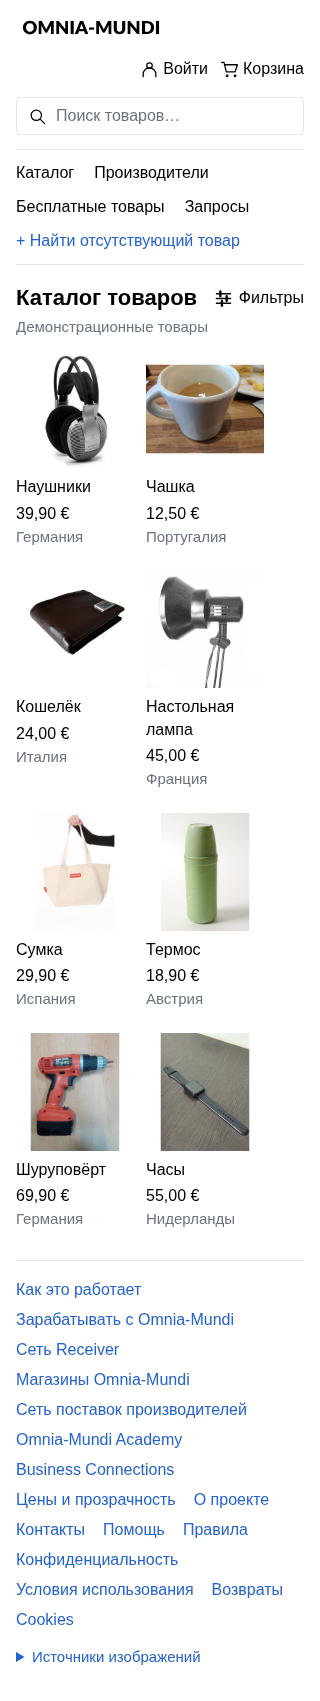
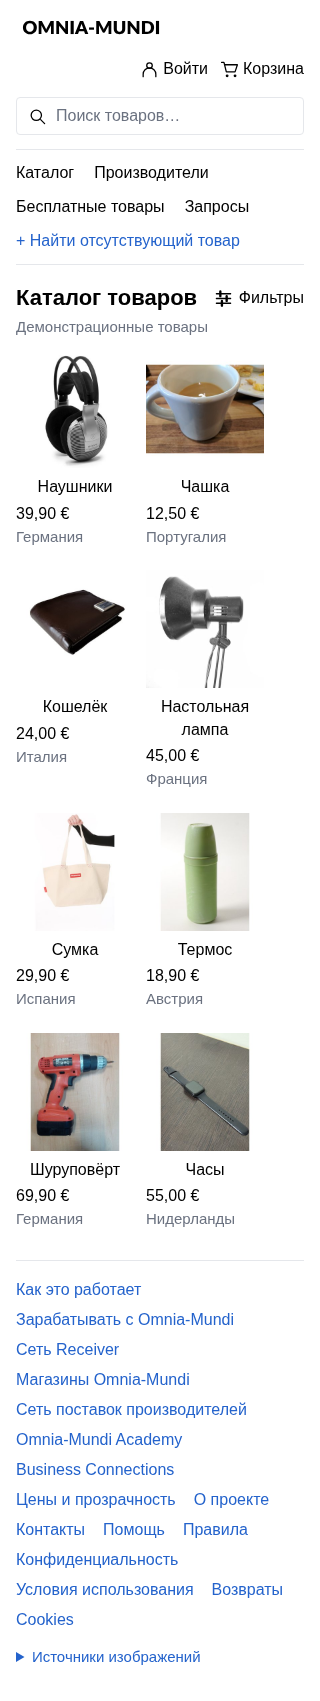
Verify centered product title lines and refresh responsive screenshots

diff --git a/tests/homepage.py b/tests/homepage.py
@@ -11,6 +11,25 @@ parser = argparse.ArgumentParser()
 parser.add_argument('--url', default='http://127.0.0.1:3010')
 parser.add_argument('--layout-only', action='store_true', help='Skip photo readiness and final screenshots while source access is blocked')
 args = parser.parse_args()
+
+def assert_product_alignment(page):
+    products = page.locator('.products article').evaluate_all("""(articles)=>articles.map(article=>{
+        const title=article.querySelector('h2');
+        const image=article.querySelector('img').getBoundingClientRect();
+        const box=title.getBoundingClientRect();
+        const range=document.createRange(); range.selectNodeContents(title);
+        return {name:title.textContent, align:getComputedStyle(title).textAlign,
+            imageCenter:image.x+image.width/2, titleCenter:box.x+box.width/2,
+            lines:[...range.getClientRects()].map(line=>line.x+line.width/2),
+            amounts:[...article.querySelectorAll('.price,.country')].map(n=>({align:getComputedStyle(n).textAlign,x:n.getBoundingClientRect().x})),
+            imageLeft:image.x};
+    })""")
+    for product in products:
+        assert product['align'] == 'center', product
+        assert abs(product['titleCenter'] - product['imageCenter']) < 1, product
+        assert product['lines'] and all(abs(center - product['imageCenter']) < 1 for center in product['lines']), product
+        assert all(n['align'] in ['left', 'start'] and abs(n['x'] - product['imageLeft']) < 1 for n in product['amounts']), product
+
 with sync_playwright() as p:
     browser = p.chromium.launch(executable_path='/usr/bin/chromium', headless=True, args=['--no-sandbox'])
     page = browser.new_page(viewport={'width': 1440, 'height': 900})
@@ -28,6 +47,9 @@ with sync_playwright() as p:
         positions = page.locator('.products img').evaluate_all('(imgs)=>imgs.map(i=>({w:i.getBoundingClientRect().width,h:i.getBoundingClientRect().height,x:i.getBoundingClientRect().x,y:i.getBoundingClientRect().y}))')
         assert len(positions) == 8
         assert all(i['w'] == 118 and i['h'] == 118 for i in positions)
+        assert_product_alignment(page)
+        assert page.locator('.products h2').filter(has_text='Часы').count() == 1
+        assert page.locator('.products h2').filter(has_text='Настольная лампа').evaluate('(n)=>{const r=document.createRange();r.selectNodeContents(n);return r.getClientRects().length>1;}')
         available = page.locator('.products').bounding_box()['width']
         columns = min(8, math.floor((available + 12) / 130))
         assert len({i['x'] for i in positions}) == columns, (width, available, columns)
@@ -83,8 +105,9 @@ with sync_playwright() as p:
         title.evaluate('(title)=>title.textContent="Очень длинное название демонстрационного товара / Long translated product name ".repeat(3)')
         assert title.evaluate('(title)=>title.scrollWidth<=title.clientWidth && title.scrollHeight<=title.clientHeight')
         assert page.evaluate('document.documentElement.scrollWidth <= innerWidth'), width
+        assert_product_alignment(page)
         title.evaluate('(title,text)=>title.textContent=text', original)
-        print(f'PASS {width}px: {columns} columns, 16/15/22px fonts, no clipped text/overlap, expanded filters/credits, keyboard dialog')
+        print(f'PASS {width}px: {columns} columns, centered title lines, left-aligned prices/countries, fonts, overflow and keyboard')
     # More products must use more columns when space permits, without a hidden 8-column cap.
     page.locator('.products').evaluate('(grid)=>{for(let i=0;i<12;i++)grid.append(grid.firstElementChild.cloneNode(true));}')
     expanded = page.locator('.products img').evaluate_all('(imgs)=>imgs.map(i=>i.getBoundingClientRect().x)')

diff --git a/docs/validation-issue-4.md b/docs/validation-issue-4.md
@@ -49,3 +49,11 @@
 Только типографика существующей статической главной; будущие функции не добавлены. Локальный HTTP-сервер — средство проверки, не публикация. Никаких merge, auto-merge или deployment. Финальное визуальное утверждение ожидается от владельца.
 
 Кредиты и условия фотографий для скриншотов сохранены в [ASSETS.md](../ASSETS.md) и [README скриншотов](screenshots/README.md); включённая производная фотография кошелька Pixloom сохраняет CC BY-SA 4.0.
+
+## Дополнение: центрирование названий (комментарий PR #5)
+
+Получен коммит владельца `abd7f7f`: единственная правка CSS поверх типографики — `text-align:center` для `.products h2`. Цены и страны остаются слева. Дополнительных изменений пользовательского кода при этой проверке не делалось.
+
+После получения этого коммита полный браузерный тест повторён на всех девяти ширинах и прошёл. Для каждого заголовка проверяются computed `text-align:center`, совпадение центра блока с центром фото и фактическое положение **каждой строки текста** через DOM Range (допуск менее 1 CSS px). Отдельно проверено наличие «Часы», многострочность «Настольная лампа» и центрирование искусственно длинного RU/EN названия без обрезания. Для цен и стран проверены прежнее выравнивание left/start и совпадение левого края с фото. Остальные проверки типографики, адаптивности, клавиатуры и атрибуции сохранены и прошли.
+
+Пересозданы текущие скриншоты 320, 390, 430, 1440, 1920 и 2560 px. Версии 390 и 1440 визуально просмотрены. Каталог, фото 118×118, автоматическая сетка, max-width:1920px, логотип и TXT не менялись. Draft PR #5 не сливался и сайт не публиковался.

diff --git a/docs/screenshots/README.md b/docs/screenshots/README.md
@@ -18,3 +18,5 @@
 ## Issue #4 — увеличение шрифтов
 
 Текущие скриншоты обновлены для размеров текста 16/15/22 CSS px. Исходные версии main сохранены в `typography-before/` (390, 1440 и 1920 px). [Сравнение и отчёт](../validation-issue-4.md). Изменены только размеры шрифтов; геометрия фото и алгоритм сетки сохранены.
+
+Скриншоты Issue #4 пересозданы после коммита владельца `abd7f7f`: названия товаров центрированы под фото, цены и страны сохранены слева. Тест проверяет фактические центры всех строк, в том числе «Часы» и многострочную «Настольная лампа», на всех девяти ширинах.
